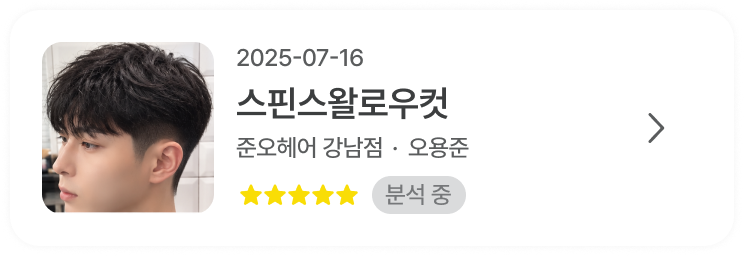
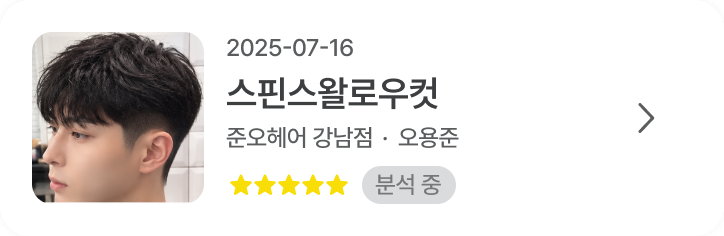
fix: 기록 카드 크기를 그림자 여백을 뺀 실제 카드에 맞춤

Changed region(s): [[0.0304, 0.1186, 0.6381, 0.8898], [0.3039, 0.1483, 0.4862, 0.2669], [0.8508, 0.4449, 0.9116, 0.5636]]

diff --git a/src/shared/config/motion.ts b/src/shared/config/motion.ts
@@ -74,11 +74,11 @@ export const RECORD_STACK = {
   screen: { width: 804 / 3, height: 1748 / 3 },
   /**
    * 첫 카드(slot 0) 윗변 y, 카드 크기, 슬롯 간격, 하단 네비 윗변 y — 실제 기록 화면(804×1748)을
-   * 1/3로 줄인 값. 카드 크기는 그림자 여백까지 포함한 카드 이미지(744×256) 기준이다.
+   * 1/3로 줄인 값. 카드 크기는 그림자 여백을 뺀 카드 본체(724×236) 기준이다(Spline Card01~12와 같음).
    * 카드는 네비 윗변에 닿으면 접히며 사라진다.
    */
-  listTop: 320 / 3,
-  card: { width: 744 / 3, height: 256 / 3 },
+  listTop: 330 / 3,
+  card: { width: 724 / 3, height: 236 / 3 },
   slotGap: 268 / 3,
   navTop: 1536 / 3,
   /** 새 카드가 튀어나온 자세: 앞으로 z, 왼쪽 x, 확대, 리그 Y회전을 되돌리는 비율(카메라 쪽으로 돌아봄) */
